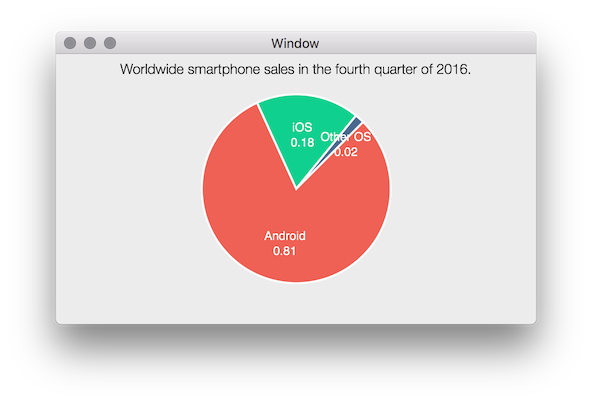
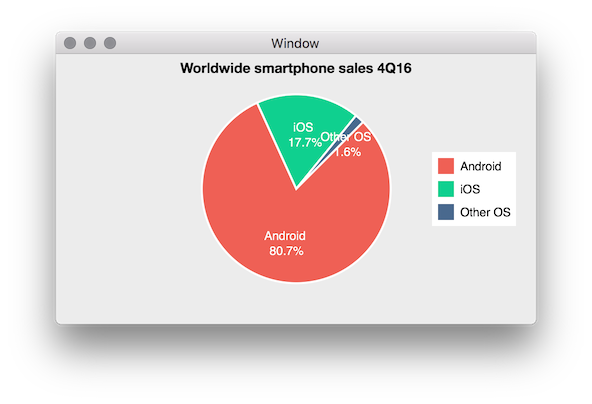
Added labels.

diff --git a/Core Plot/ViewController.swift b/Core Plot/ViewController.swift
@@ -50,12 +50,12 @@ class ViewController: NSViewController {
         // 2 - Create text style
         let textStyle: CPTMutableTextStyle = CPTMutableTextStyle()
         textStyle.color = CPTColor.black()
-        textStyle.fontName = "HelveticaNeue-Light"
+        textStyle.fontName = "HelveticaNeue-Bold"
         textStyle.fontSize = 14.0
         textStyle.textAlignment = .center
         
         // 3 - Set graph title and text style
-        graph.title = "Worldwide smartphone sales in the fourth quarter of 2016."
+        graph.title = "Worldwide smartphone sales 4Q16"
         graph.titleTextStyle = textStyle
         graph.titlePlotAreaFrameAnchor = CPTRectAnchor.top
     }
@@ -91,6 +91,29 @@ class ViewController: NSViewController {
     }
     
     func configureLegend() {
+        // 1 - Get graph instance
+        guard let graph = hostView.hostedGraph else { return }
+        
+        // 2 - Create legend
+        let theLegend = CPTLegend(graph: graph)
+        
+        // 3 - Configure legend
+        theLegend.numberOfColumns = 1
+        theLegend.fill = CPTFill(color: CPTColor.white())
+        let textStyle = CPTMutableTextStyle()
+        textStyle.fontSize = 12
+        theLegend.textStyle = textStyle
+        
+        // 4 - Add legend to graph
+        graph.legend = theLegend
+        if view.bounds.width > view.bounds.height {
+            graph.legendAnchor = .right
+            graph.legendDisplacement = CGPoint(x: -20, y: 0.0)
+            
+        } else {
+            graph.legendAnchor = .bottomRight
+            graph.legendDisplacement = CGPoint(x: -8.0, y: 8.0)
+        }
     }
 
 }
@@ -106,7 +129,7 @@ extension ViewController: CPTPieChartDataSource, CPTPieChartDelegate {
     }
     
     func dataLabel(for plot: CPTPlot, record idx: UInt) -> CPTLayer? {
-        let layer = CPTTextLayer(text: String(format: "\(mobileOS[Int(idx)])\n%.2f", marketShare[Int(idx)]))
+        let layer = CPTTextLayer(text: "\(mobileOS[Int(idx)])\n \(marketShare[Int(idx)]*100)%")
         layer.textStyle = plot.labelTextStyle
         return layer
     }
@@ -121,6 +144,6 @@ extension ViewController: CPTPieChartDataSource, CPTPieChartDelegate {
     }
     
     func legendTitle(for pieChart: CPTPieChart, record idx: UInt) -> String? {
-        return nil
+        return mobileOS[Int(idx)]
     }  
 }
